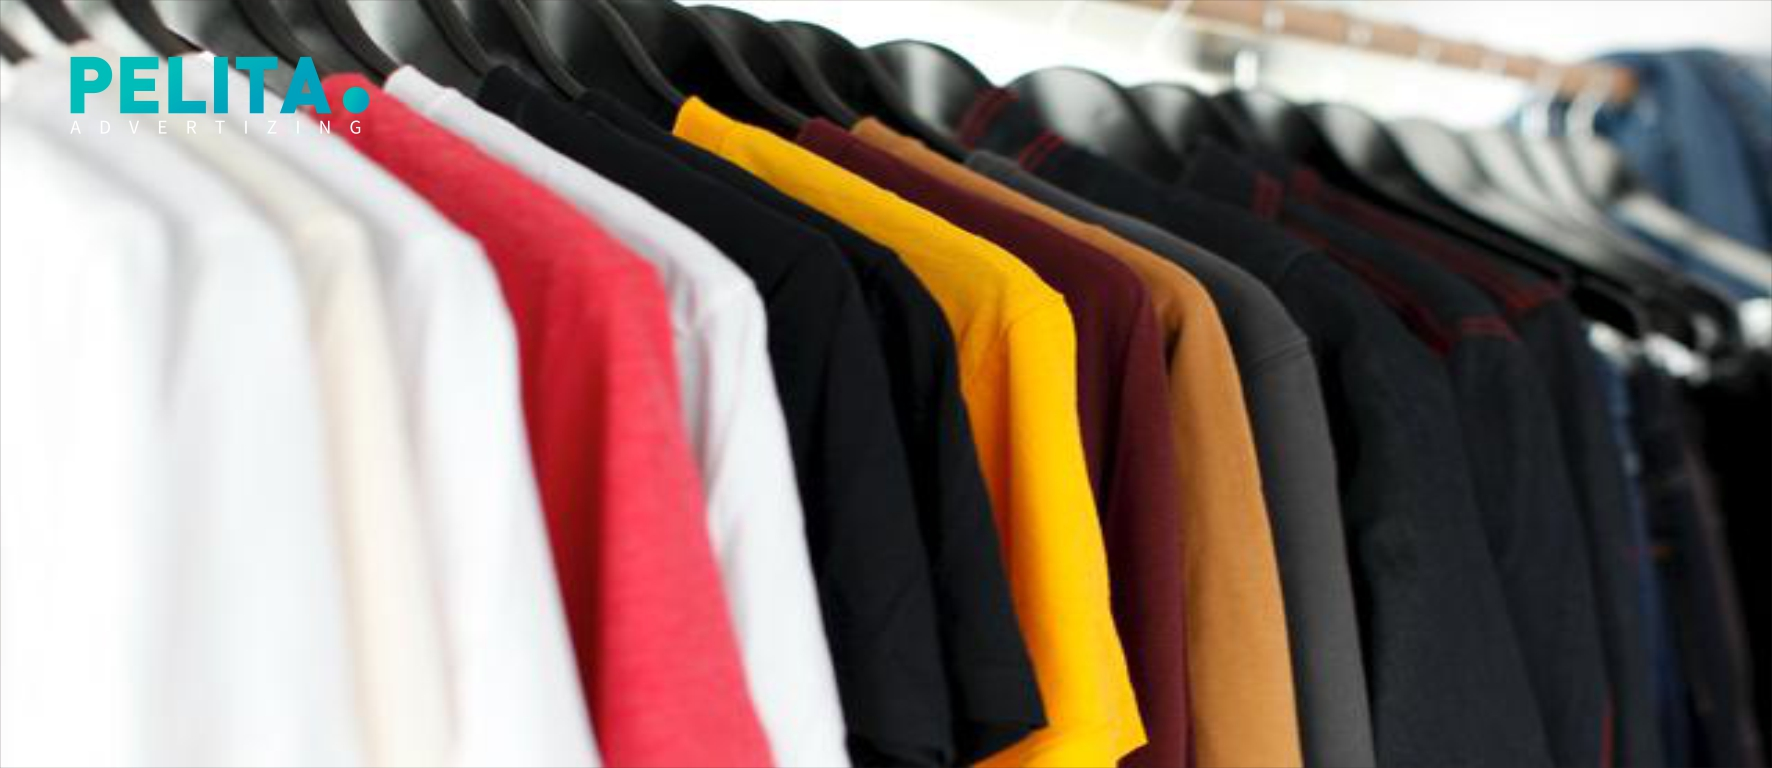
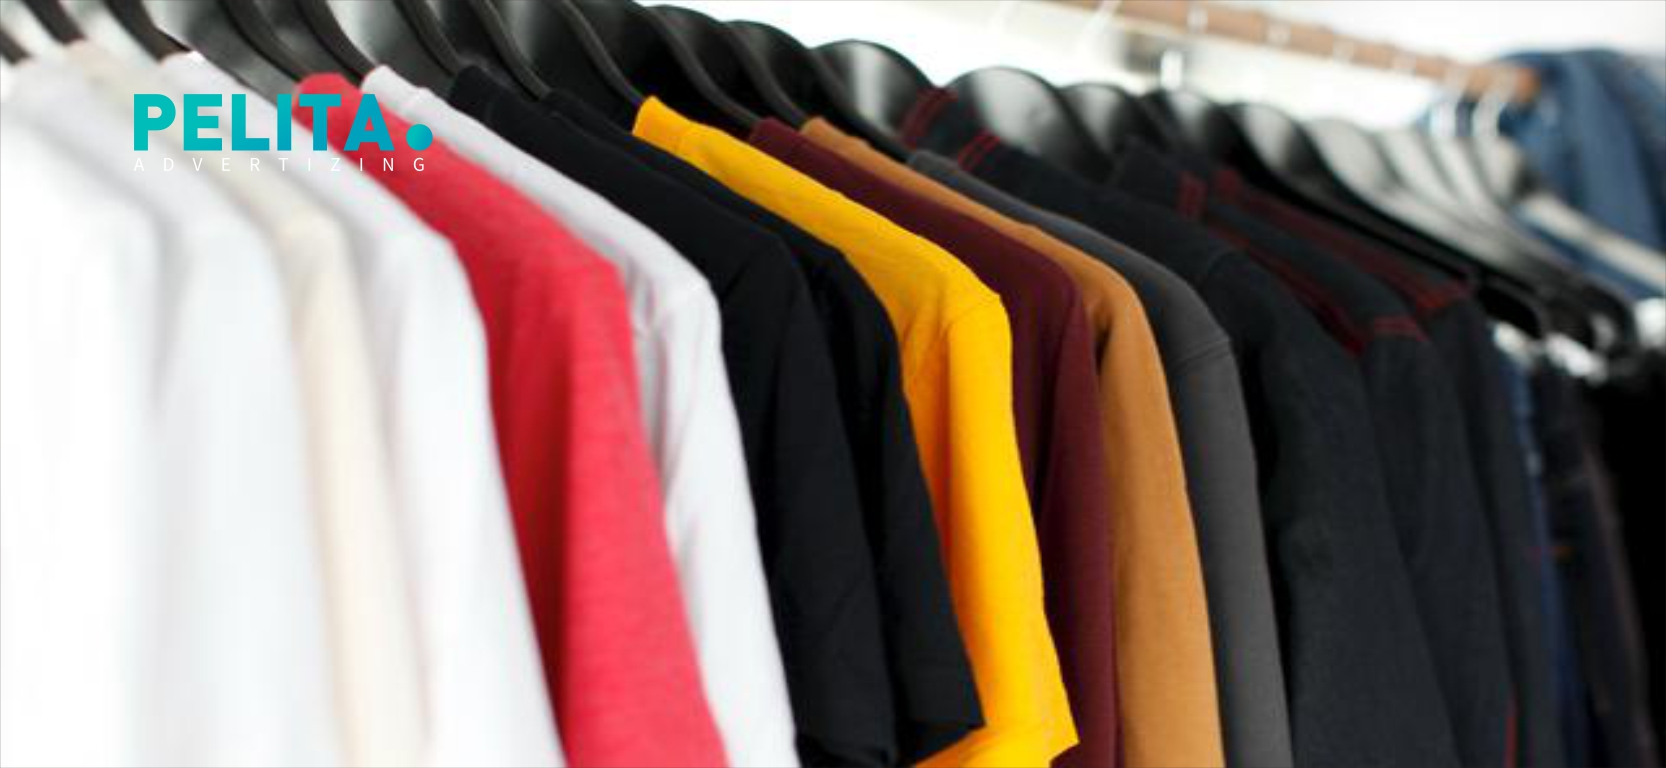
up

Changed region(s): [[0.0312, 0.0625, 0.2809, 0.2188]]

diff --git a/index.html b/index.html
@@ -38,8 +38,8 @@
 				</div>
 				<div class="container" style="padding-top: 10%; padding-bottom: 10%;">
 					<div class="hero__content hero-content-style1">
-						<h2 class="hero-large-text">PERCETAKAN <span class="js-rotating">Digital Printing | Konveksi | Souvenir | Perfection</span></h2>
-						<div class="hero-small-text">Tumbuh dan Berkembang dengan Karakter dan Pengalaman</div><a class="btn btn-theme-primary btn-lg" href="https://demos.famethemes.com/percetakan/#services">Our Services</a> <a class="btn btn-secondary-outline btn-lg" href="https://demos.famethemes.com/percetakan/#contact">Get Started</a>
+						<h2 class="hero-large-text">CV.Pelita Kreasindo <span class="js-rotating">Digital Printing | Konveksi | Souvenir | advertizing</span></h2>
+						<div class="hero-small-text">Tumbuh dan Berkembang dengan Karakter dan Pengalaman</div><a class="btn btn-theme-primary btn-lg" href="https://demos.famethemes.com/CV.Pelita Kreasindo/#services">Our Services</a> <a class="btn btn-secondary-outline btn-lg" href="https://demos.famethemes.com/CV.Pelita Kreasindo/#contact">Get Started</a>
 					</div>
 				</div>
 			</section>
